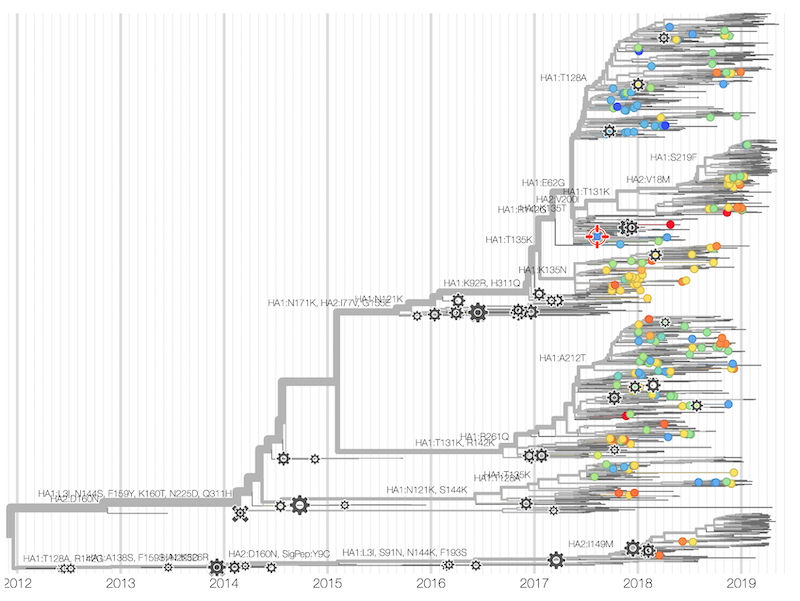
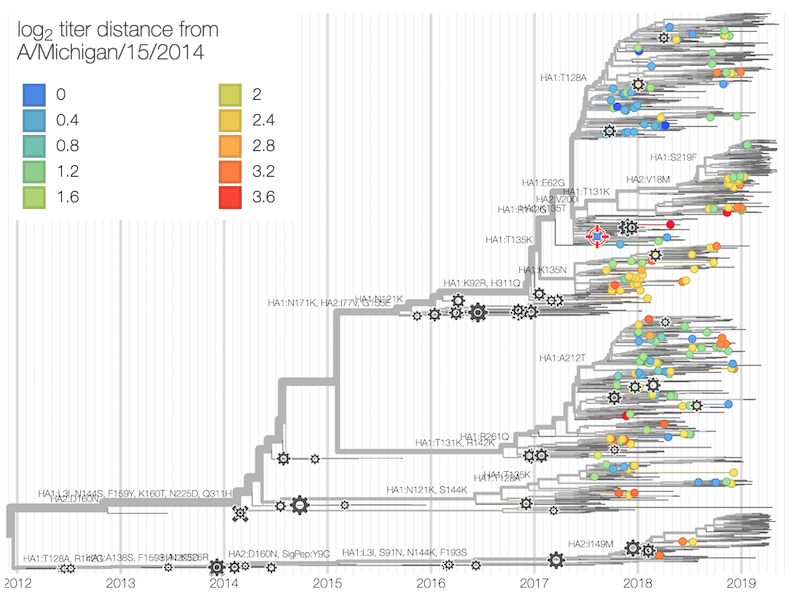
Finish draft of chapter 3's titer viz section
This still needs to be proofread and revised.

Changed region(s): [[0.0, 0.03, 0.3438, 0.3594]]

diff --git a/chapter_03_visualizing_influenza_experimental_phenotypes.tex b/chapter_03_visualizing_influenza_experimental_phenotypes.tex
@@ -147,8 +147,8 @@ When the test and reference viruses differ, the assay provides a heterologous ti
 
 Researchers report titer measurements as both raw and normalized values.
 Raw titer measurements represent the denominator associated with the minimum dilution required to inhibit agglutination.
-For example, a single two-fold dilution has a titer of 2.
-Ten two-fold dilutions have a titer of $2^{10}$ or 1024.
+These two-fold dilution series have raw measurements like 80, 160, 320, etc. such that lower numbers represent the presence of more antisera in the dilution.
+These raw measurements can also be represented more conveniently on a $\log_{2}$ scale \citep{Smith:2004jc,Bedford:2014bf}.
 Antisera vary in their potency such that some sera always require higher or lower dilutions to inhibit agglutination regardless of the test virus.
 For example, a low potency antiserum requires a lower dilution to inhibit agglutination by the same reference virus resulting in a low autologous titer.
 To account for this variable potency, we normalize titer measurements by subtracting the $\log_{2}$ titer between a test and reference virus (the heterologous titer) from the $\log_{2}$ titer between the reference virus and its own antisera (the autologous titer).
@@ -165,7 +165,7 @@ However, antigenic cartography is less suited to representations of short-term a
 \begin{figure}
   \centering
   \includegraphics[width=\textwidth]{chapter_03/antigenic-cartography-bedford-2014.png}
-  \caption{\label{fig:antigenic-cartography-bedford-2014} Antigenic cartography of titer measurements from seasonal influenza lineages.
+  \caption{\label{fig:antigenic-cartography-bedford-2014} Antigenic cartography of titer measurements from seasonal influenza lineages from Figure 1 of \citet{Bedford:2014bf}.
     Raw titer measurements in a multidimensional matrix are transformed through Bayesian multidimensional scaling (BMDS) to a two-dimensional representation.
     These antigenic maps reveal long-term patterns of antigenic drift.}
 \end{figure}
@@ -181,7 +181,7 @@ The benefits of visualizing the phylogenetic context of antigenic distances for 
 \begin{figure}
   \centering
   \includegraphics[width=\textwidth]{chapter_03/nextflu-titer-phylogeny.png}
-  \caption{\label{fig:titer-phylogeny} Antigenic distance (mean log2 titer drop) between test strains (colored tips) and a selected reference virus's antiserum (red crossmark) in the context of a H3 phylogeny of recently circulating strains.}
+  \caption{\label{fig:titer-phylogeny} Antigenic distance (mean log2 titer drop) between test strains (colored tips) and a selected reference virus's antiserum (red crossmark) in the context of a H3 phylogeny of recently circulating strains from nextflu \citep{Neher:2015jr}.}
 \end{figure}
 
 Another recent representation of pairwise antigenic distances attempts to address the limitations of the phylogenetic visualization.
@@ -209,7 +209,19 @@ Additionally, users wanted to know which available antiserum has the lowest anti
 Finally, users wanted to compare the antigenic diversity of extant clades.
 From these user goals, we decided that an optimal visualization would summarize the distribution of antigenic distances by antiserum and clade.
 
-Expressiveness and effectiveness \citep{Mackinlay1986}.
+We observed that the existing titer matrix heatmaps addressed most of the user goals except for communicating which extant clades were missing measurements.
+Both the phylogenetic and heatmap views use color to encode the most relevant quantitative data of antigenic distance.
+Previous visualization design research has shown that quantitative data are more effectively represented by positional encodings (e.g., x- or y-axis positions) whereas nominal data (e.g., phylogenetic clades) can be effectively encoded with color \citep{Mackinlay1986}.
+In the phylogenetic view, the two available positional axes are used to represent time and the unitless phylogenetic position of nodes.
+Neither of these data are relevant to the user goals described above.
+In the titer matrix heatmaps, the two positional axes are used to encode two nominal data types (reference virus name and clade name).
+
+We reasoned that we could make a more effective visualization that addressed most user goals by changing the encoding of data in the titer matrix heatmaps.
+Specifically, we chose to temporally omit clade names from the visualization and encode the antigenic distances on the positional x-axis.
+By encoding antigenic distance on a positional axis, we could annotate relevant thresholds for antigenic distances, show all available measurements for each reference virus at once, and display a summary statistic (mean antigenic distance) for each reference virus.
+We chose to maintain the encoding of nominal reference virus names on the y-axis, since most user goals require interrogation of specific antisera.
+With color available as an additional channel, we decided to encode the antigenic class of each antigenic distance with color.
+We implemented this design as an interactive visualization with the Altair visualization framework \citep{VanderPlas2018} at \url{https://cse512-19s.github.io/A3-Influenza-vaccine/} (Figure~\ref{fig:prototype-antigenic-viz}).
 
 \begin{figure}
   \centering
@@ -221,4 +233,23 @@ Expressiveness and effectiveness \citep{Mackinlay1986}.
     The interactive version of the visualization allows users to filter distances reported to a range of years for sera and test viruses by clicking and dragging across the corresponding histogram.
     The interactive visualization provides details on demand when users hover over specific circles including the name of the test virus, the $\log_{2}$ distance between test and reference viruses, and the $\log_{2}$ autologous distance of the corresponding serum.
   }
+\end{figure}
+
+This interactive visualization allows users to quickly compare which antisera have more measurements than others by the presence or absence of circles.
+By interactively selected years of test viruses to display, users can filter the display to see the distribution of antigenic distances (and mean distance) to recent viruses from all selected antisera.
+The distribution of antigenic distances identifies which antisera have perform poorly in HI assays (those with many negative normalized values, shown in gray) and which are antigenically distinct from most circulating viruses (i.e., poor vaccine candidates).
+
+Despite its strengths, this visualization also has several weaknesses.
+Distances are not grouped anywhere by clade, making comparisons between antisera by clade impossible.
+This missing information also prevents users from identifying which clades need more titer measurements.
+Finally, the alphabetic order of reference viruses on the y-axis wastes an opportunity to communicate more important information to the user.
+For example, if users could choose to sort the reference viruses by their mean antigenic distance or by their number of measurements, this single visualization could help users more rapidly identify antisera to consider for vaccine candidates or for additional HI experiments.
+We anticipate that the inclusion of clade status in a future implementation (by color or in small multiples) and the default sorting of reference viruses by mean antigenic distance could address these remaining limitations (for example, Figure~\ref{fig:mockup-of-antigenic-distance-by-clade}).
+The resulting visualization could provide a more effective real-time view of the same data currently displayed statically in titer matrix heatmaps.
+
+\begin{figure}
+  \centering
+  \includegraphics[width=\textwidth]{chapter_03/antigenic-distance-by-clade-and-serum-mockup.png}
+  \caption{\label{fig:mockup-of-antigenic-distance-by-clade} Mockup of an alternative representation of antigenic distances by clade and antiserum.
+  This encoding of data would allow users to accomplish primary goals including identifying antisera without many measurements, distance of reference viruses across clades, and comparison of antigenic distances between clades.}
 \end{figure}
